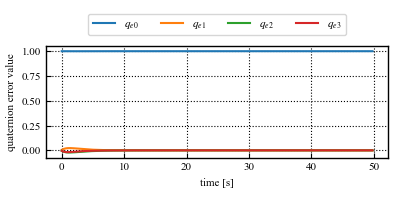
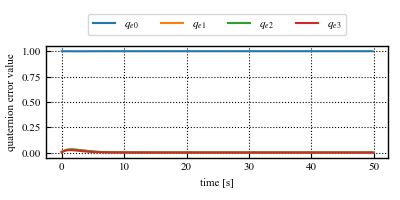
UPDATE: change reward

diff --git a/td3/train.py b/td3/train.py
@@ -276,13 +276,13 @@ def evaluate():
     # # plt.figure(figsize=(yoko,tate),dpi=100)
     plt.subplot(236)
     plt.plot(np.arange(max_steps)*dt, d_hist[:,0],label = r"$D_{1}$")
-    # plt.plot(np.arange(max_steps)*dt, d_hist[:,1],label = r"$D_{2}$")
-    # plt.plot(np.arange(max_steps)*dt, d_hist[:,2],label = r"$D_{3}$")
-    # plt.plot(np.arange(max_steps)*dt, d_hist[:,3],label = r"$D_{4}$")
+    plt.plot(np.arange(max_steps)*dt, d_hist[:,1],label = r"$D_{2}$")
+    plt.plot(np.arange(max_steps)*dt, d_hist[:,2],label = r"$D_{3}$")
+    plt.plot(np.arange(max_steps)*dt, d_hist[:,3],label = r"$D_{4}$")
     plt.plot(np.arange(max_steps)*dt, d_hist[:,4],label = r"$D_{5}$")
-    # plt.plot(np.arange(max_steps)*dt, d_hist[:,5],label = r"$D_{6}$")
-    # plt.plot(np.arange(max_steps)*dt, d_hist[:,6],label = r"$D_{7}$")
-    # plt.plot(np.arange(max_steps)*dt, d_hist[:,7],label = r"$D_{8}$")
+    plt.plot(np.arange(max_steps)*dt, d_hist[:,5],label = r"$D_{6}$")
+    plt.plot(np.arange(max_steps)*dt, d_hist[:,6],label = r"$D_{7}$")
+    plt.plot(np.arange(max_steps)*dt, d_hist[:,7],label = r"$D_{8}$")
     plt.plot(np.arange(max_steps)*dt, d_hist[:,8],label = r"$D_{9}$")
     # plt.title('Action')
     plt.ylabel('d')

diff --git a/td3/environment.py b/td3/environment.py
@@ -268,7 +268,7 @@ class SatelliteContinuousEnv(gym.Env):
                 # or abs(action[2]) > self.max_torque 
         done_2 = self.nsteps >= self.max_steps
         done_3 = False
-        angle = np.rad2deg(dcm2euler(env.quaternion2dcm(q_new))).reshape([-1,3])
+        angle = np.rad2deg(self.dcm2euler(self.quaternion2dcm(q_new)))
         if max(abs(angle)) < 1e-2:
             self.omega_count += 1
         if self.omega_count > 5:
@@ -283,7 +283,7 @@ class SatelliteContinuousEnv(gym.Env):
             #状態と入力を抑えたい
             reward = -(self.q_weight*((1-qe_new[0])**2 + qe_new[1:]@qe_new[1:]) + self.w_weight*omega_new@omega_new + self.action_weight*action@action) 
             if max(abs(action)) > self.max_torque:
-                reward += -5
+                reward += -10
 
         elif self.steps_beyond_done is None:
             # epsiode just ended

diff --git a/td3/utils.py b/td3/utils.py
@@ -61,7 +61,7 @@ def mini_batch_train_adaptive(env, agent, max_episodes, max_steps, batch_size):
         for episode in range(max_episodes):
             state = env.reset()
             episode_reward = 0    
-            th_e = np.array(env.inertia.flatten())
+            th_e = np.array(env.inertia.flatten()*env.multi)
 
             for step in range(max_steps):
                 # pbar.set_postfix(OrderedDict(multi = env.multi, w_0= np.rad2deg(env.startOmega), steps = step))#OrderedDict(loss=1-episode/5, acc=episode/10))
